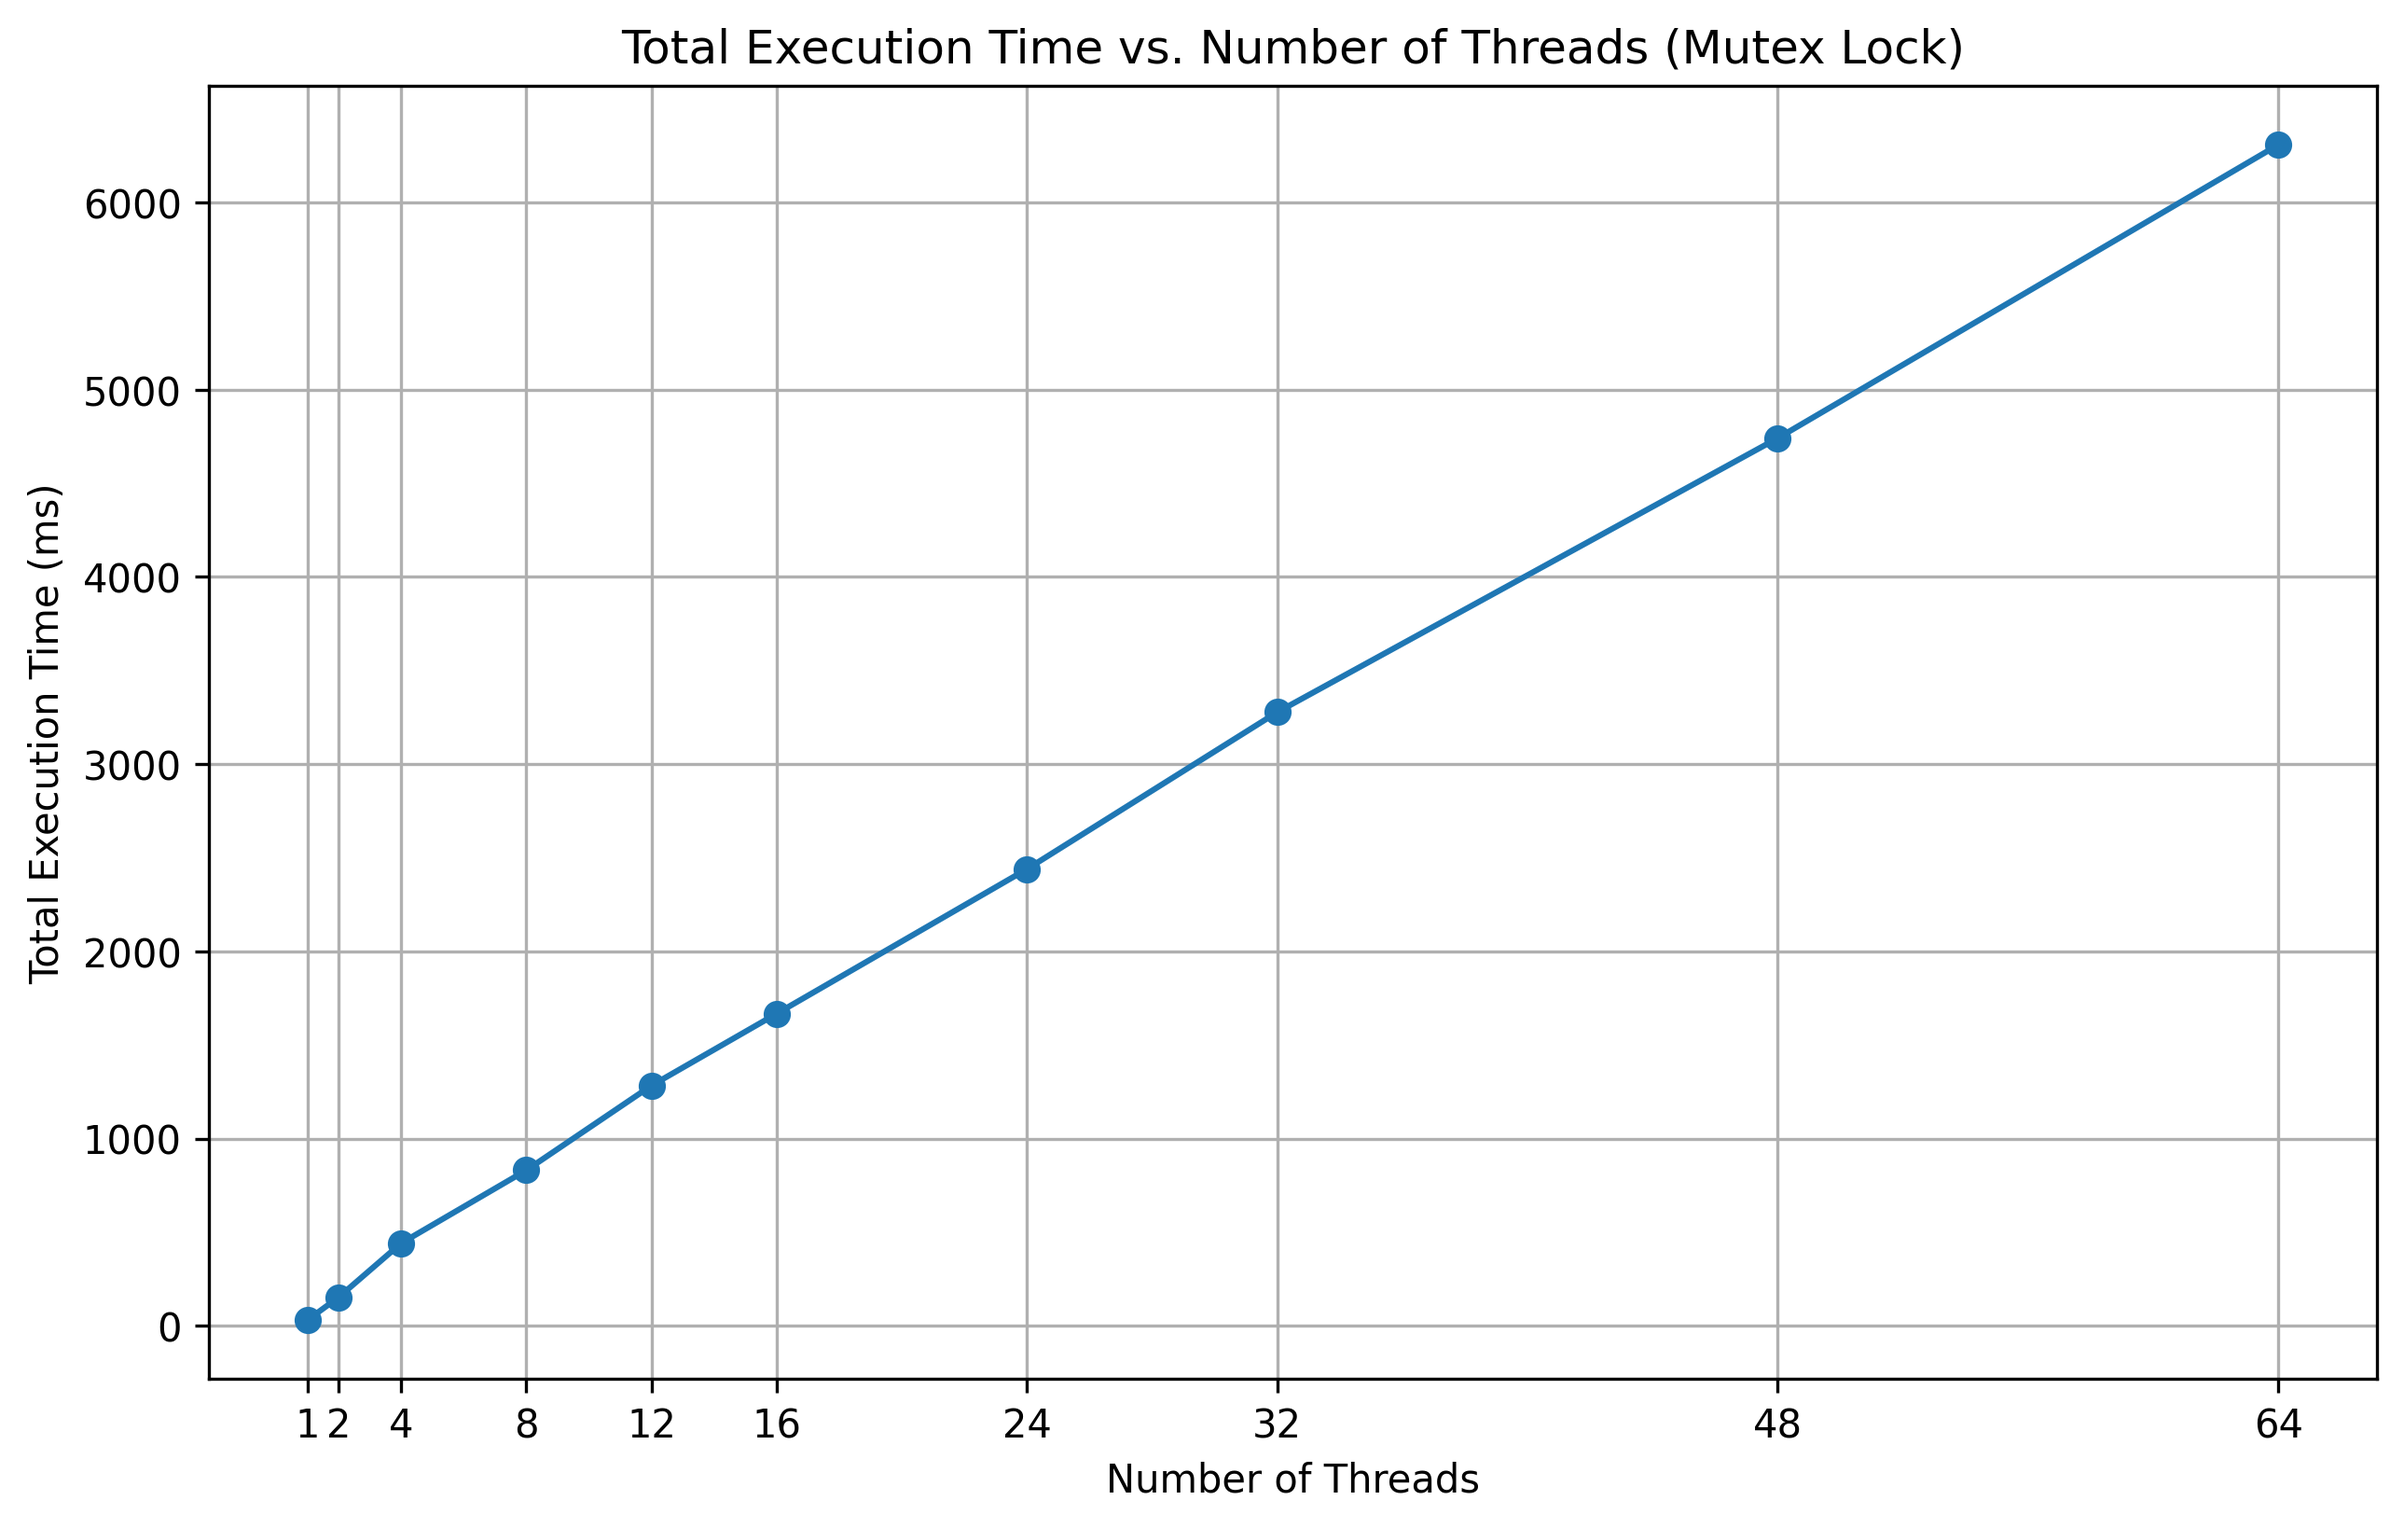
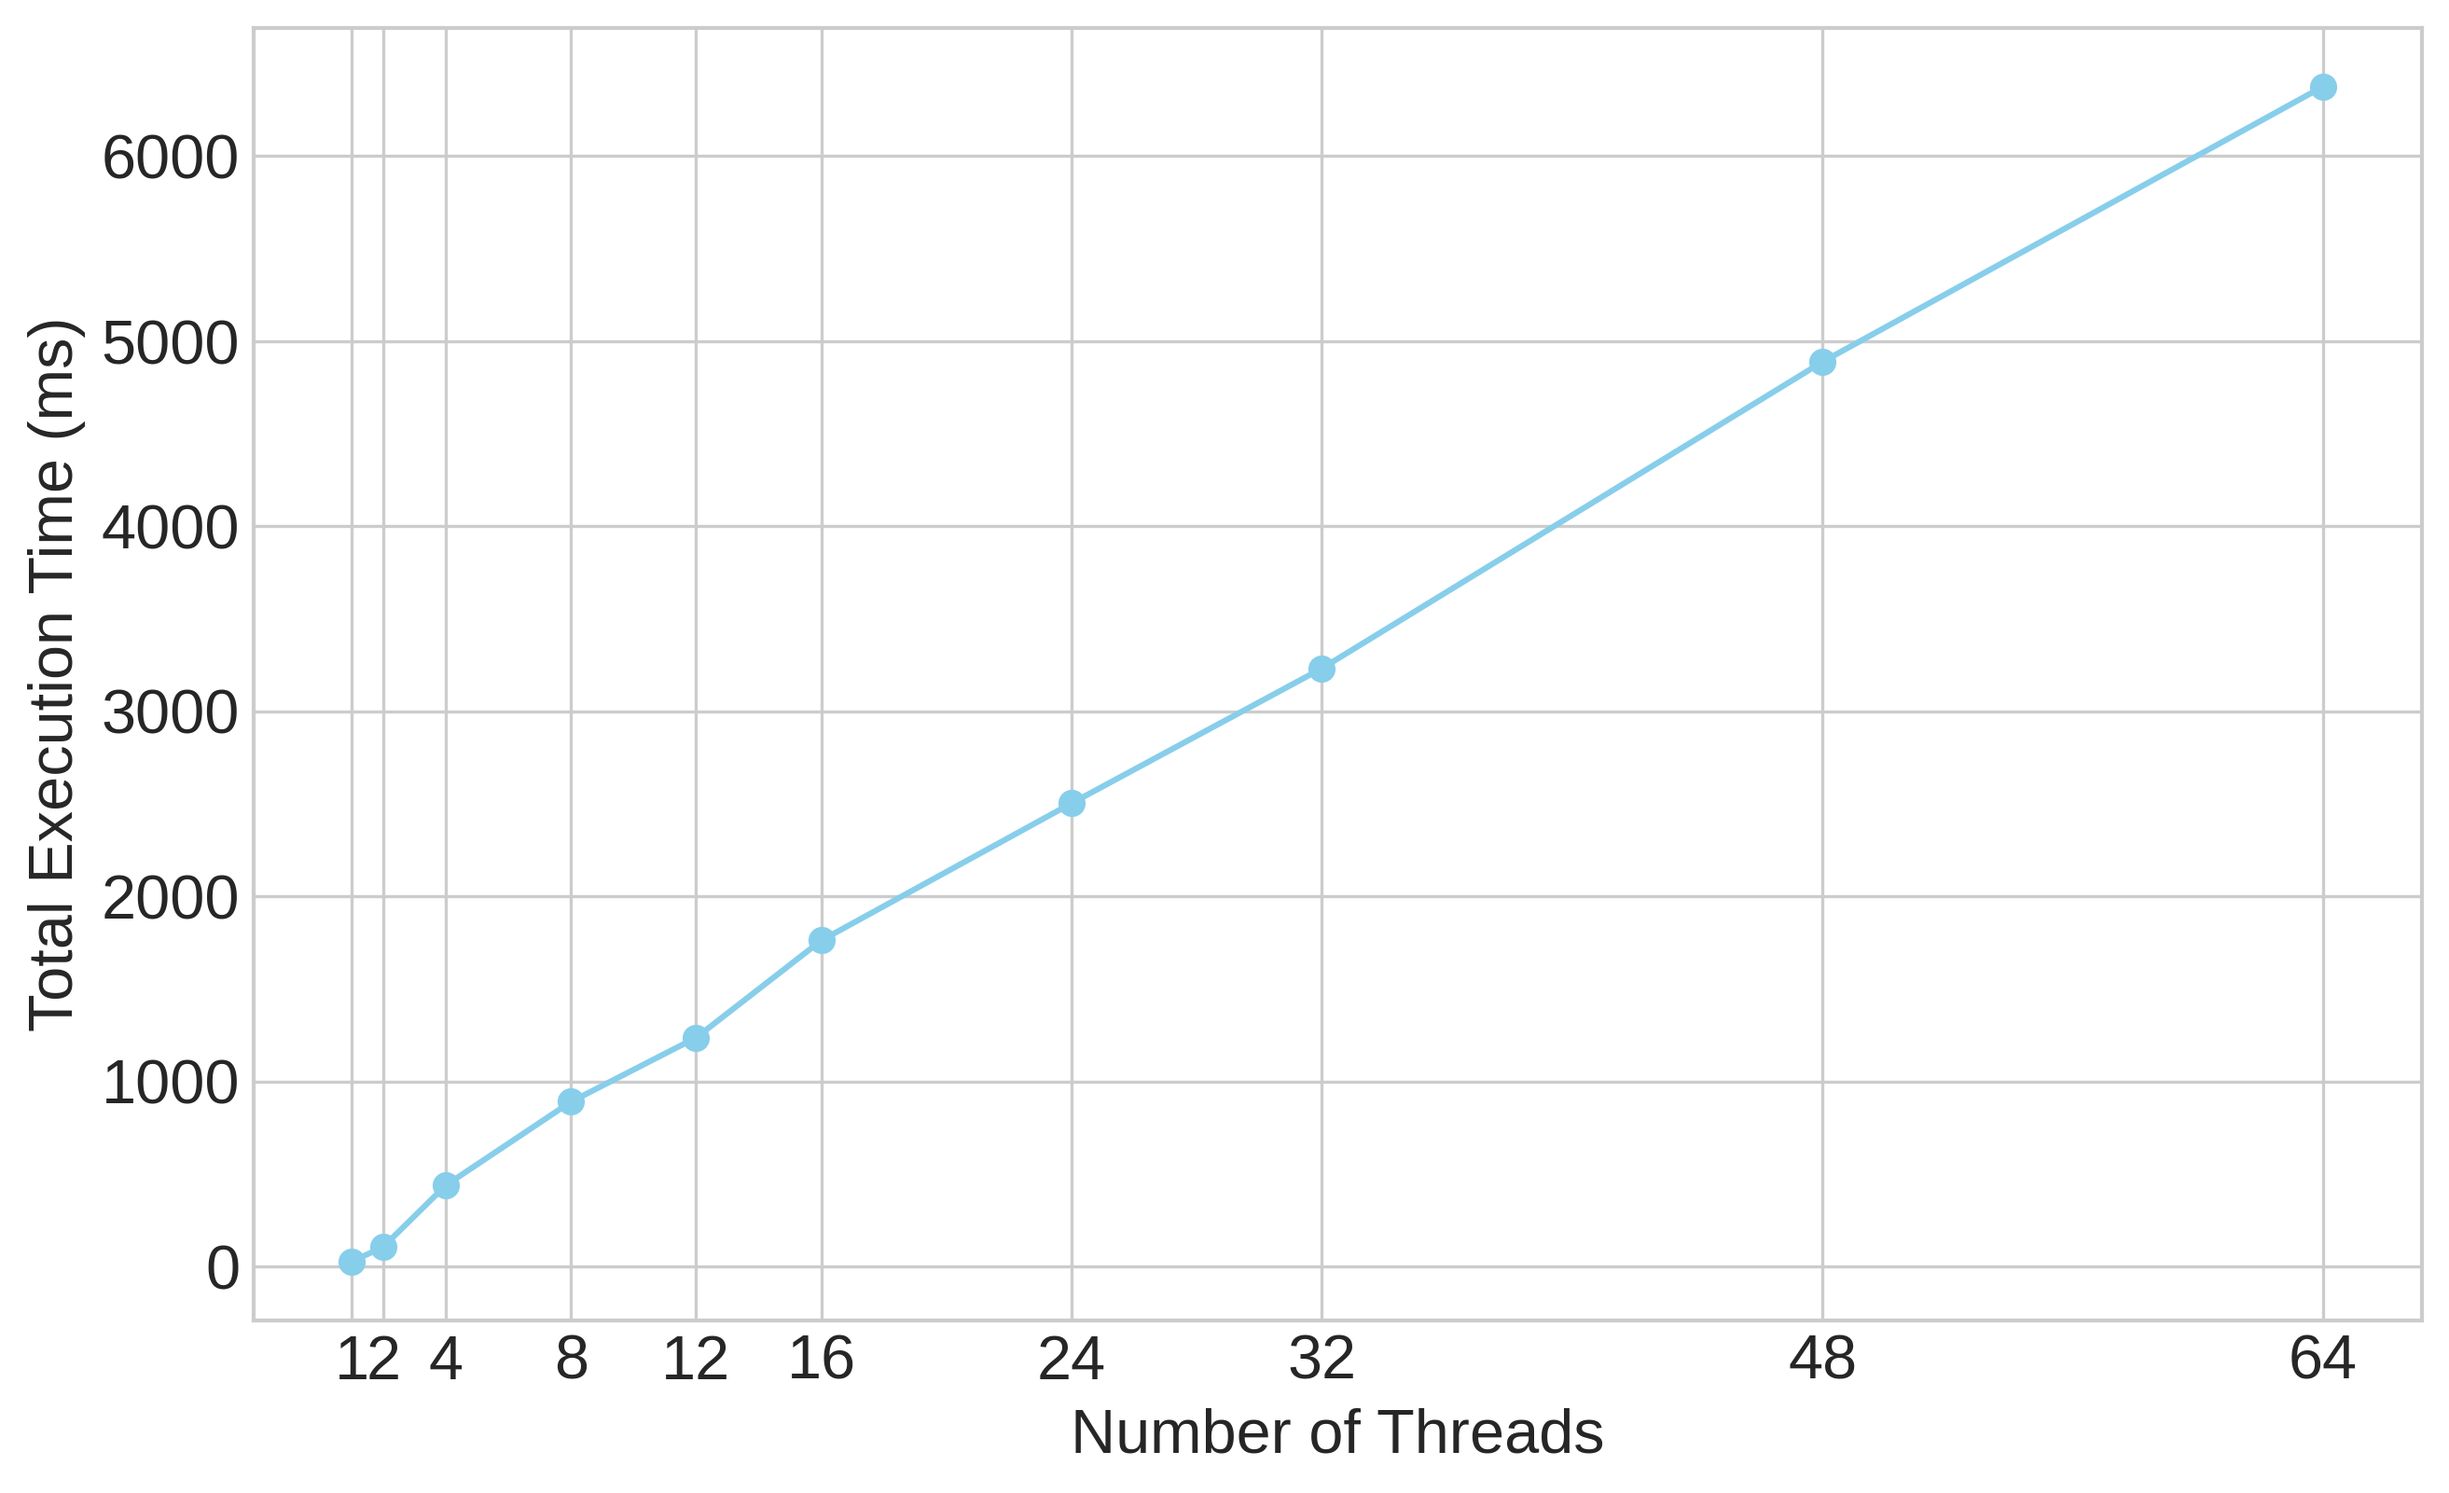
modify pics

diff --git a/bench_data/plot_results.py b/bench_data/plot_results.py
@@ -68,9 +68,12 @@ def main():
         return
 
     # 绘图
+    # 图像字体大小为16
+    plt.rcParams.update({'font.size': 16})
+    plt.style.use('seaborn-v0_8-whitegrid') 
     plt.figure(figsize=(10, 6))
-    plt.plot(actual_thread_counts, execution_times, marker='o', linestyle='-')
-    plt.title('Total Execution Time vs. Number of Threads (Mutex Lock)')
+    plt.plot(actual_thread_counts, execution_times, marker='o', linestyle='-', color='skyblue')
+    # plt.title('Total Execution Time vs. Number of Threads (Mutex Lock)')
     plt.xlabel('Number of Threads')
     plt.ylabel('Total Execution Time (ms)')
     plt.xticks(actual_thread_counts) # 确保x轴刻度为实际测试的线程数
